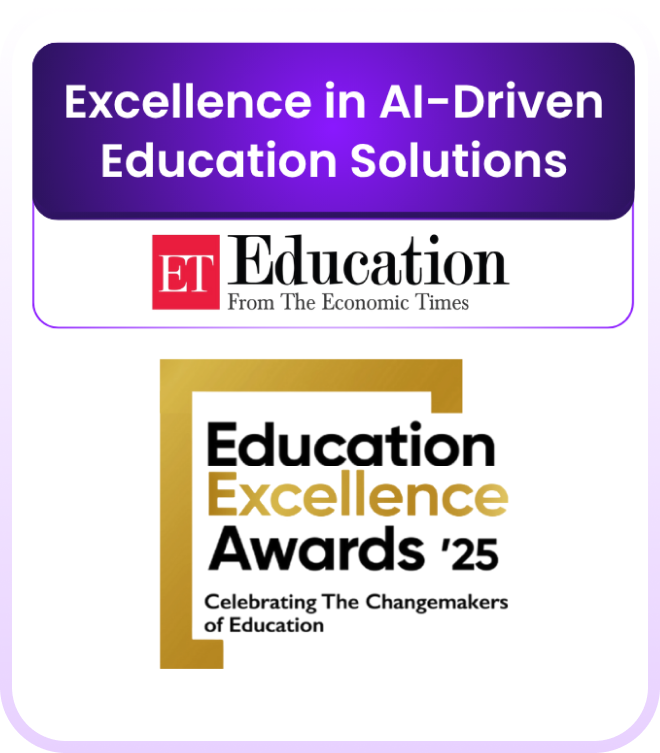
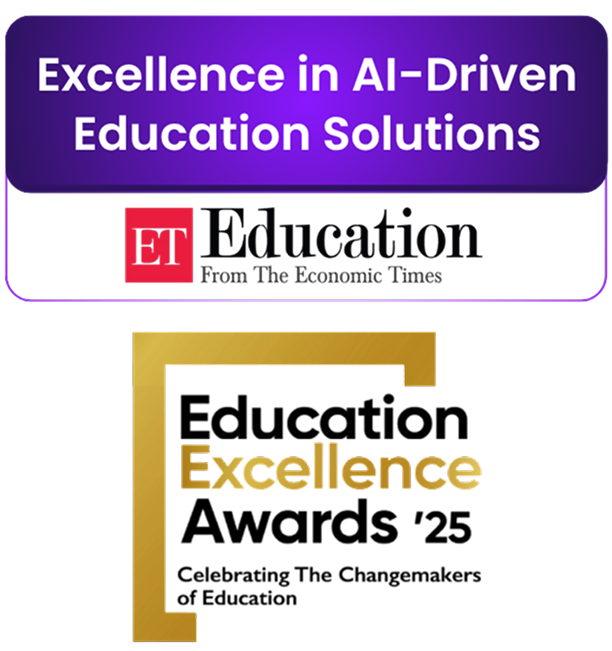
VF-445-awards components updated

diff --git a/src/components/home/RecognitionAwards.jsx b/src/components/home/RecognitionAwards.jsx
@@ -3,10 +3,10 @@ import { Box } from "@mui/material";
 import Image from "next/image";
 
 const awards = [
-    { img: "/img/rewards/img1.png" },
-    { img: "/img/rewards/img2.png" },
-    { img: "/img/rewards/img3.png" },
-    { img: "/img/rewards/img4.png" },
+    { img: "/img/rewards/rewards1.png" },
+    { img: "/img/rewards/rewards2.png" },
+    { img: "/img/rewards/rewards3.png" },
+    { img: "/img/rewards/rewards4.png" },
 ];
 
 const RecognitionAwards = () => {
@@ -33,13 +33,13 @@ const RecognitionAwards = () => {
                     backgroundRepeat: "no-repeat",
                     borderRadius: "32px",
                     boxShadow: "0 4px 24px rgba(0, 0, 0, 0.07)",
-                    p: { xs: 3, md: '27px' },
+                    p: { xs: 3, md: 5 },
                     display: "flex",
                     flexDirection: { xs: "row", md: "row" },
                     flexWrap: { xs: "wrap", md: "nowrap" },
                     justifyContent: "space-around",
                     alignItems: "center",
-                    gap: { xs: 2, md: '10px' },
+                    gap: { xs: 2, md: 0 },
                     mx: "auto",
                 }}
             >
@@ -52,9 +52,6 @@ const RecognitionAwards = () => {
                             display: "flex",
                             justifyContent: "center",
                             alignItems: "center",
-                            borderRadius: '24px',
-                            backgroundColor: 'white',
-                            px: '7px',
                             position: "relative",
                             overflow: "hidden",
                         }}
